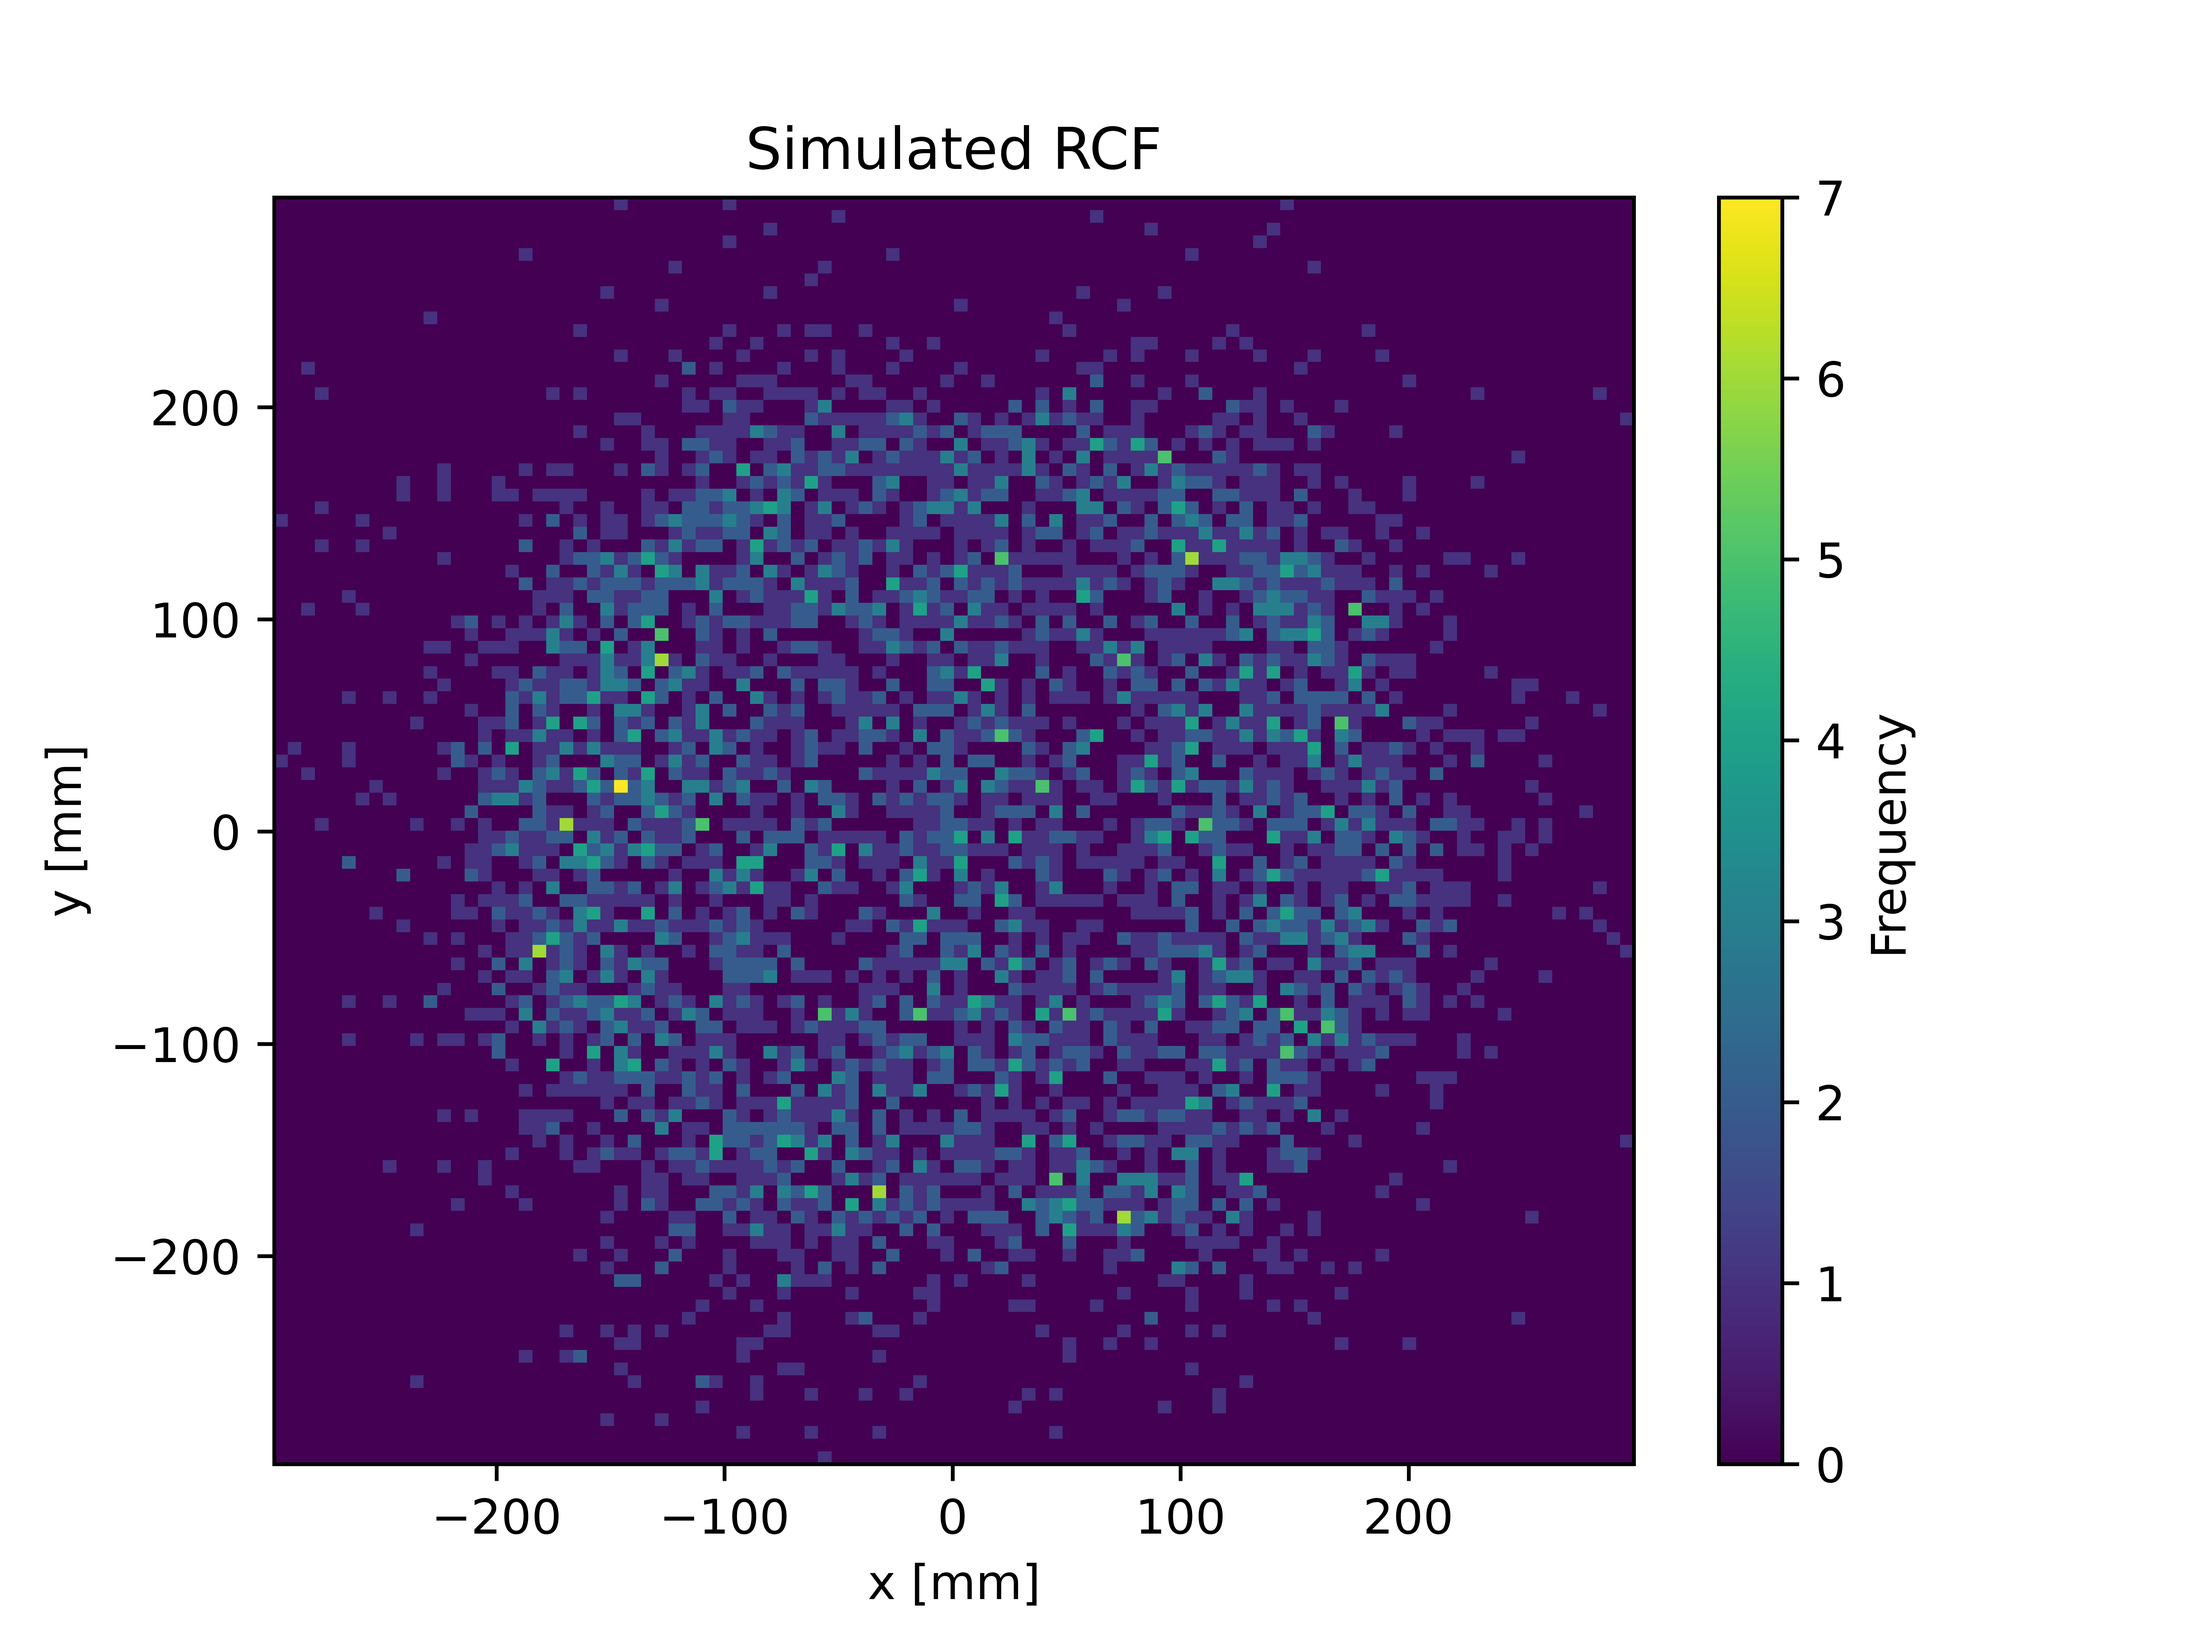
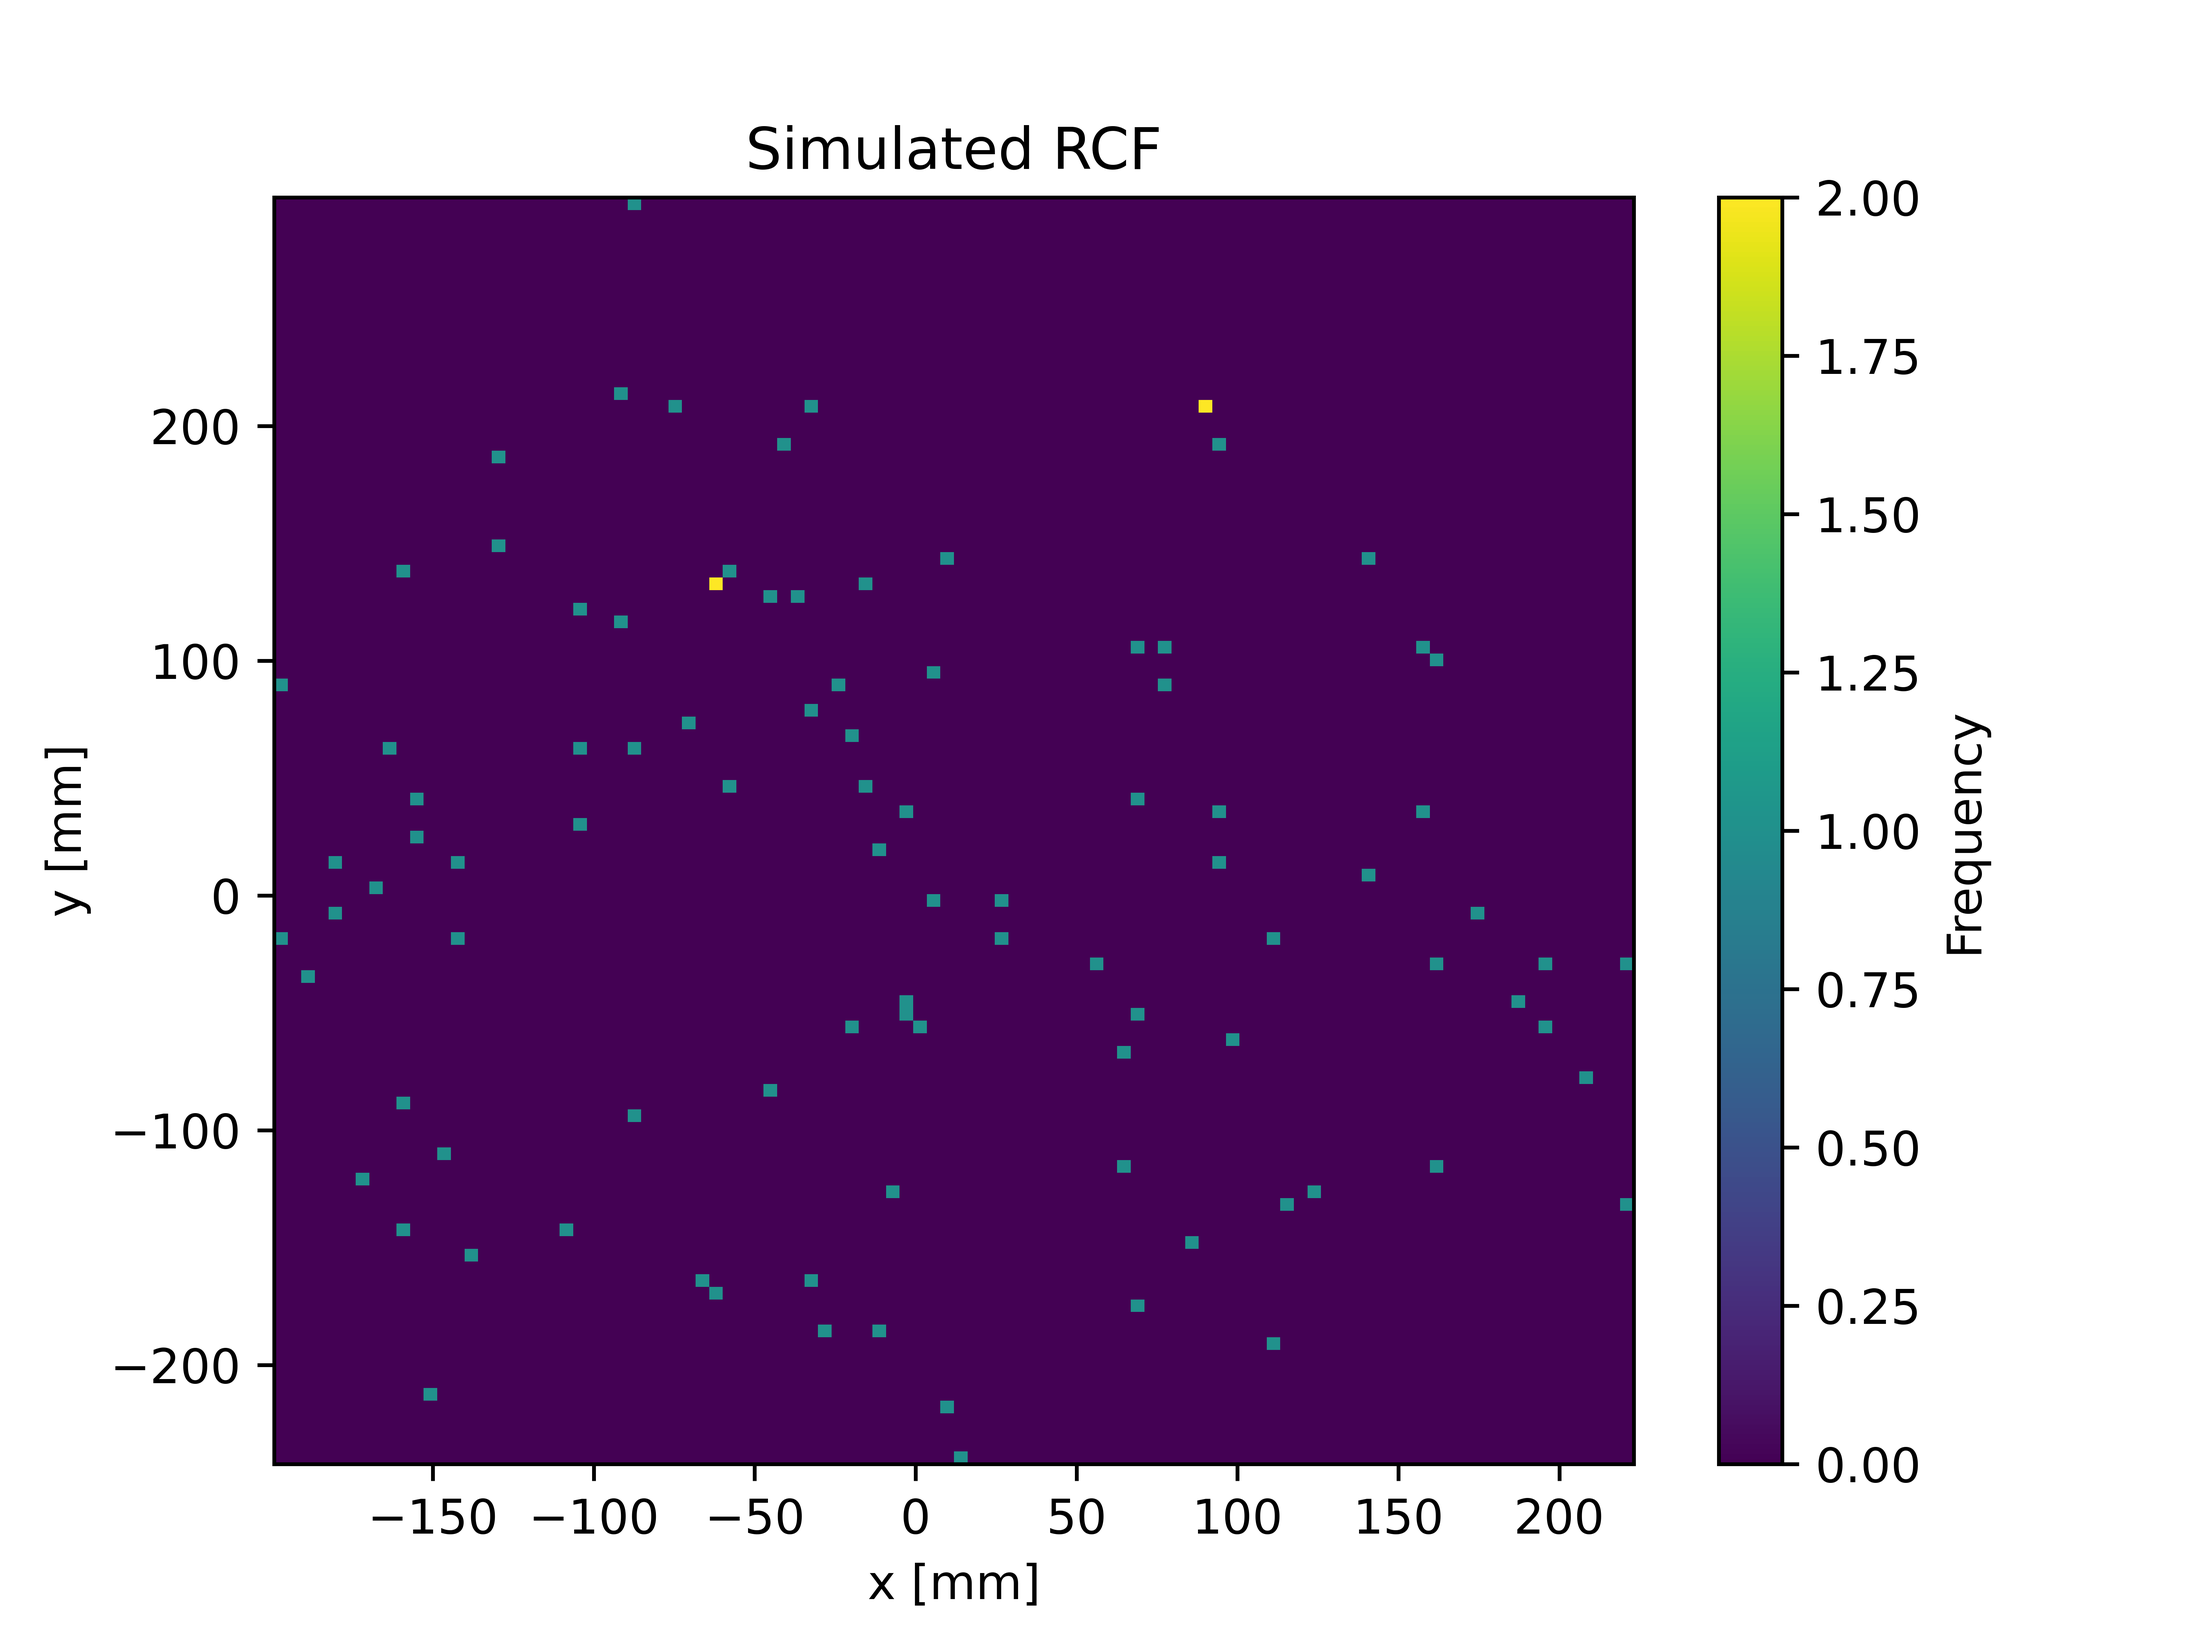
Multiprocessing

diff --git a/BB_RCF.py b/BB_RCF.py
@@ -9,6 +9,7 @@ import numpy as np
 from BB_Simple import beam, density, biermann_field
 from scipy.constants import elementary_charge as e, proton_mass as m_p
 import matplotlib.pyplot as plt
+from multiprocessing import Pool
 
 def maxwell(temp = 1e7) -> np.ndarray:
     '''
@@ -130,6 +131,27 @@ class ProtonBeam():
         plt.ylabel("y [mm]")
         plt.colorbar(label = "Frequency")
         plt.show()
+    def propagate_one(self, proton: Proton) -> Proton:
+        '''
+        Propagate one proton by one time step
+        '''
+        magnetic = biermann_field(proton.pos(), self.beam_sh, self.density_distr)
+        proton.move(ProtonBeam.TIME_INCREMEMT, magnetic, ProtonBeam.E_FIELD)
+        return proton
+    def shoot_at_target(self, proton: Proton) -> list[float]:
+        '''
+        Shoot one proton at target
+        '''
+        while True:
+            proton = self.propagate_one(proton)
+            if proton.pos()[2] <= 0:
+                if np.abs(proton.pos()[0]) < 0.3 and np.abs(proton.pos()[1]) < 0.3:
+                    print("Proton detected.")
+                    return proton.pos()[:2]
+                return
+            if proton.vel()[2] >= 0:
+                print("Warning: Proton moving backwards")
+                return
     def propagate(self):
         '''
         Propagate proton beam along
@@ -148,7 +170,7 @@ class ProtonBeam():
             density value
         '''
         return density(xyz, rho0 = ProtonBeam.RHO0, decay_length = ProtonBeam.DECAY_LENGTH)
-    def beam_sh(self, xyz):
+    def beam_sh(self, xyz) -> float:
         '''
         Beam shape
 
@@ -197,8 +219,35 @@ class ProtonBeam():
             plt.savefig("RCF.png", dpi = 1000)
             plt.show()
         return positions
+    def send_beam_mp(self, plot = True) -> np.ndarray:
+        '''
+        Send beam through magnetic field and record on RCF behind target using multiprocessing.
+
+        Args:
+            plot: whether to plot
+
+        Returns:
+            final positions of protons
+        '''
+        with Pool() as pool:
+            positions = pool.map(self.shoot_at_target, self.__protons)
+        for i, pos in enumerate(positions):
+            if pos is None:
+                positions.pop(i)
+        positions = np.array(positions)
+        if plot:
+            plt.figure()
+            plt.title("Simulated RCF")
+            plt.hist2d(positions[:, 0]*1000, positions[:, 1]*1000, bins = 100)
+            plt.xlabel("x [mm]")
+            plt.ylabel("y [mm]")
+            plt.colorbar(label = "Frequency")
+            plt.savefig("RCF.png", dpi = 1000)
+            plt.show()
+        return positions
+
 
 if __name__ == "__main__":
-    sample_beam = ProtonBeam(5000, 10, 'even')
+    sample_beam = ProtonBeam(100, 10, 'even')
     sample_beam.plot_spectrum()
-    position_arr = sample_beam.send_beam()
+    position_arr = sample_beam.send_beam_mp()
